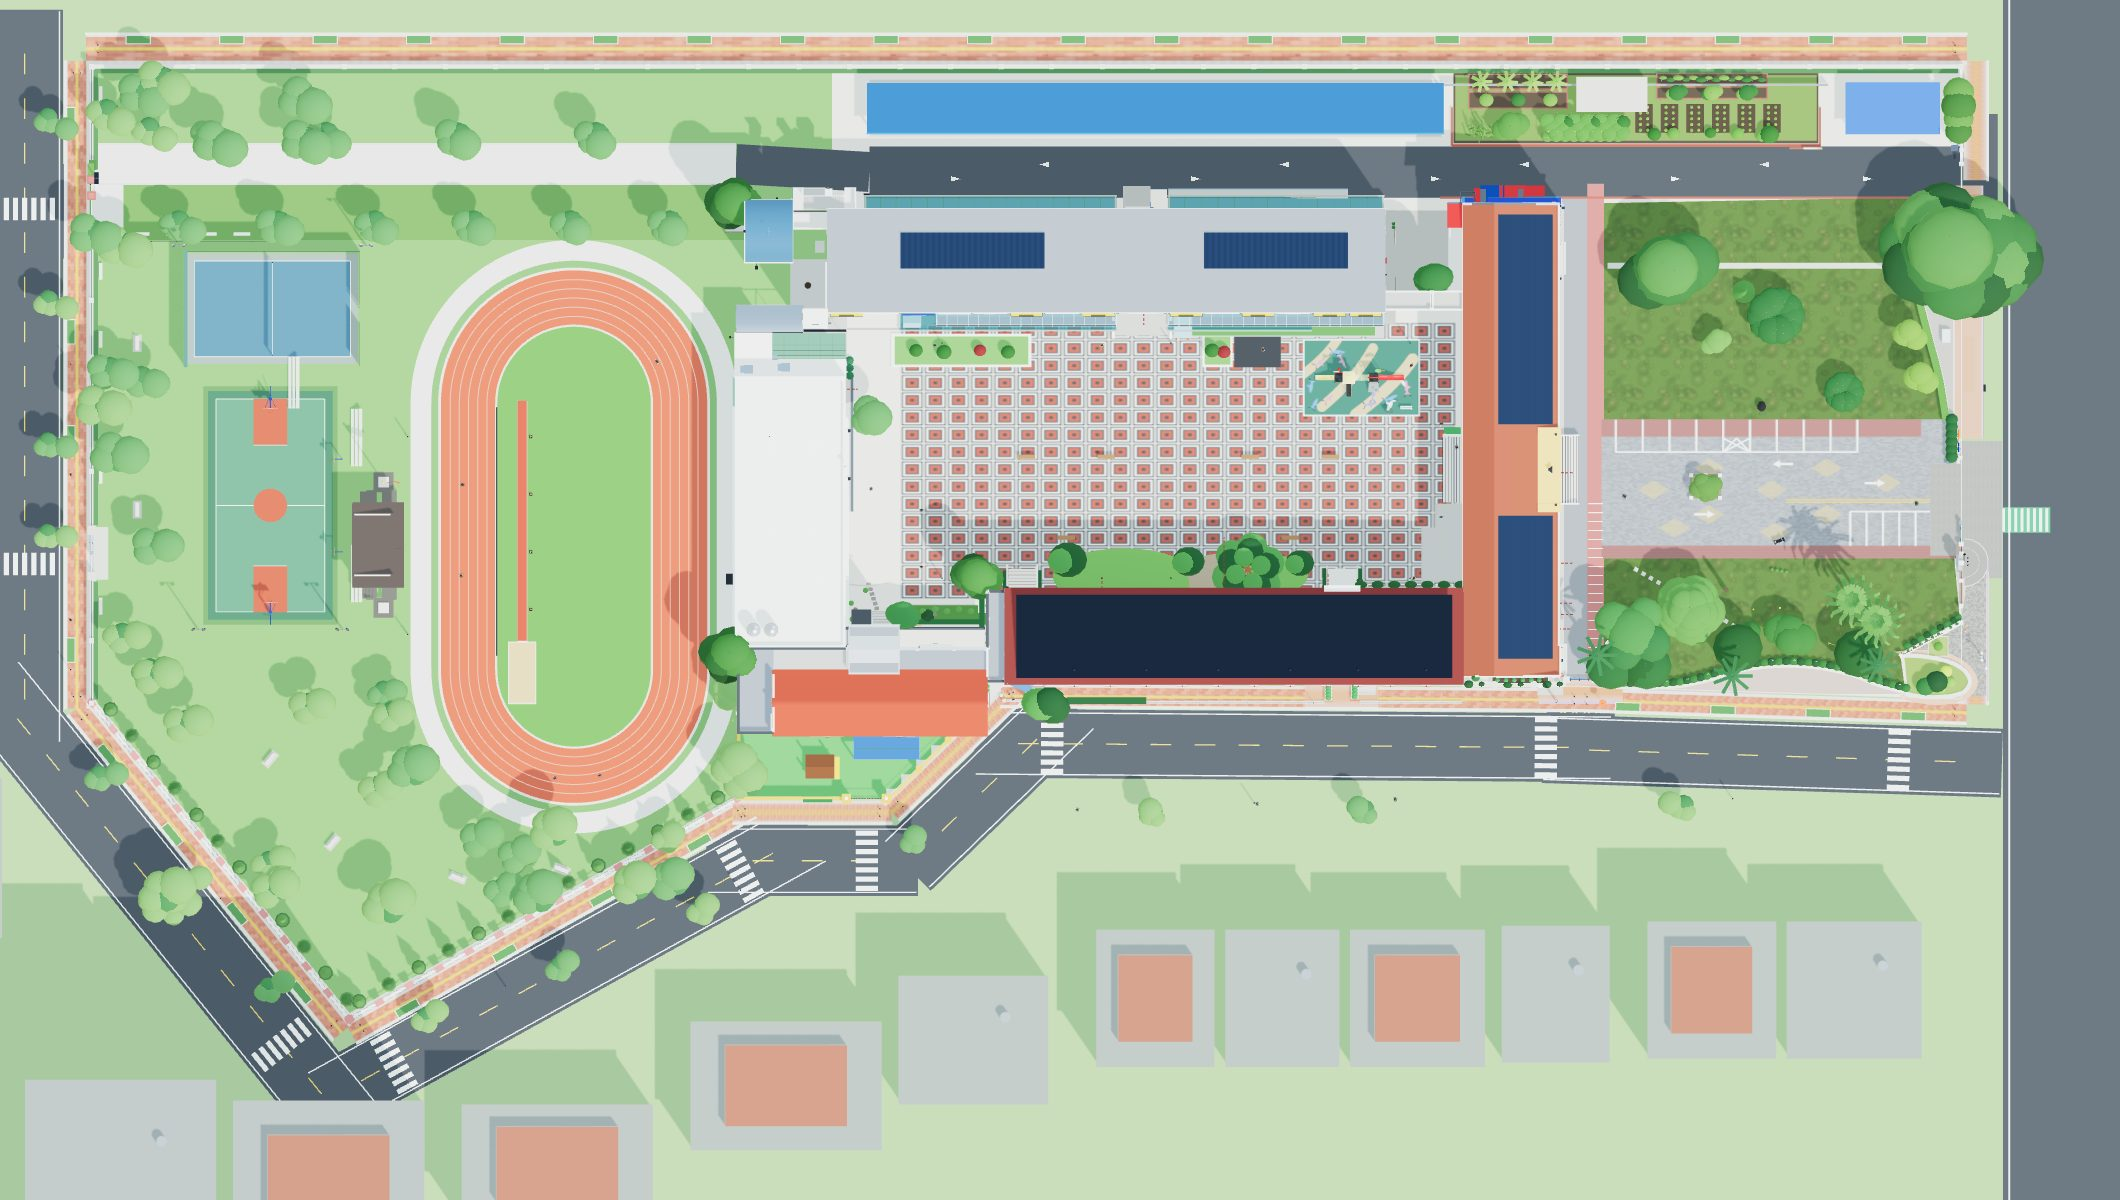
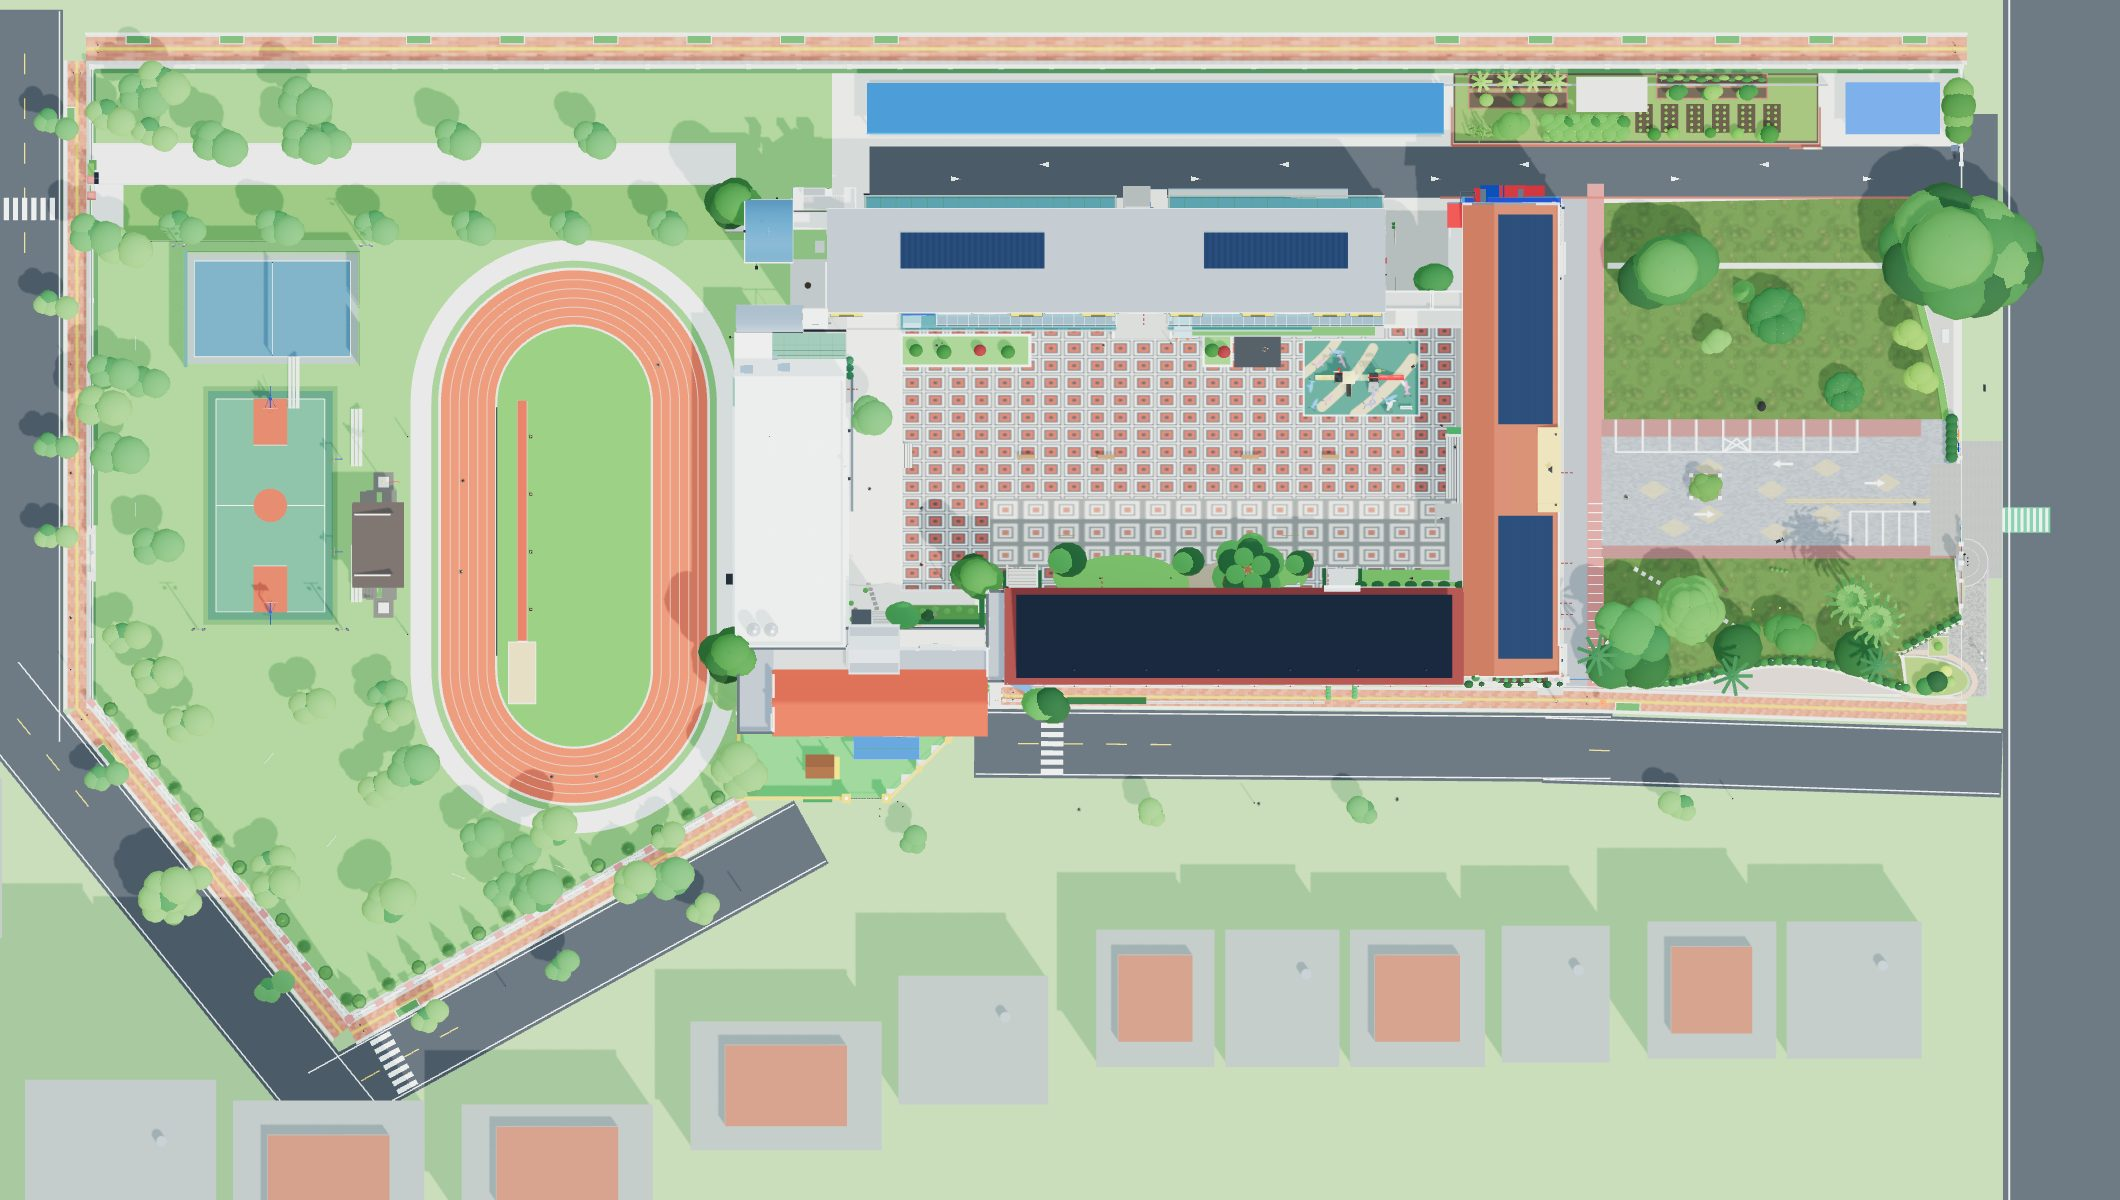
feat(courtyard): sunken courtyard; one step in front of the east breezeway (v2.12.0)
Site facts from the user: one step from the forecourt into the east breezeway, and the
courtyard about 1 m below the breezeway. So the courtyard now sits 0.75 m below the
surrounding ground (0.9 m below the breezeway):
- base terrain and campus ground polygon get an opening over the courtyard, with a
  sunken base slab; washed-stone retaining walls with caps on the N/S/W edges and
  stair flights down (N x1, S x2, W x1); the east side is served by the breezeway
  steps and the rear accessible ramp
- courtyard paving and the play structure groups move down; other objects lying fully
  inside the courtyard (trees, planting, benches, south-side garden) are lowered
  before static batching; the breezeway steps and ramp are built at the new level
- breezeway floor back to front-corridor level (the forecourt-side flight is removed)
- pedestrians, walk-mode eye height and 1F 360 markers follow the sunken courtyard
- admin map images regenerated

Claude-Session: https://claude.ai/code/session_0167Rfd13qErLKZLgH1cNLB3

diff --git a/campus-3d.js b/campus-3d.js
@@ -929,8 +929,21 @@ function addBox(parent, w, h, d, mat, x, y, z, cast = true) {
 // ============================================================================
 // 3. BUILD GROUND, COMMUTER WALKWAY BUFFER, ROADS, COURTYARD, BOUNDARY & CONTEXT
 // ============================================================================
-// Base terrain
-addBox(layerGroups.roads, 980, 0.2, 980, new THREE.MeshStandardMaterial({ color: 0x8eb374, roughness: 0.92 }), 0, -0.14, 0, false);
+// 下沉中庭（v2.12.0）：中庭比東棟穿堂低約 0.9 m、比前庭低約 0.75 m（依現場：穿堂前僅一階，中庭低於穿堂約 1 m）
+const COURTYARD_SINK = { x1: -17.2, x2: 52.6, z1: -24.0, z2: 8.7, D: 0.75 };
+window.COURTYARD_SINK = COURTYARD_SINK;
+const inCourtyardSink = (x, z, m = 0) => x >= COURTYARD_SINK.x1 - m && x <= COURTYARD_SINK.x2 + m && z >= COURTYARD_SINK.z1 - m && z <= COURTYARD_SINK.z2 + m;
+window.inCourtyardSink = inCourtyardSink;
+
+// Base terrain（中庭範圍挖空，另以下沉中庭地基與擋土牆圍塑）
+{
+  const baseMat = new THREE.MeshStandardMaterial({ color: 0x8eb374, roughness: 0.92 });
+  const C = COURTYARD_SINK, E = 490;
+  [[-E, E, -E, C.z1], [-E, E, C.z2, E], [-E, C.x1, C.z1, C.z2], [C.x2, E, C.z1, C.z2]].forEach(([x1, x2, z1, z2]) =>
+    addBox(layerGroups.roads, x2 - x1, 0.2, z2 - z1, baseMat, (x1 + x2) / 2, -0.14, (z1 + z2) / 2, false));
+  // 下沉中庭地基（頂面略低於中庭鋪面）
+  addBox(layerGroups.roads, C.x2 - C.x1, 0.3, C.z2 - C.z1, new THREE.MeshStandardMaterial({ color: 0x9a968c, roughness: 0.9 }), (C.x1 + C.x2) / 2, -C.D - 0.16, (C.z1 + C.z2) / 2, false);
+}
 
 // Procedural Campus Green Lawn Texture (`運動場與後圍牆間的校園草地緩衝區` 自然草皮紋理)
 // 前庭草坪（依 2026 俯拍照片：偏橄欖綠、無明顯割草條紋、局部黃褐色踩踏斑塊）
@@ -1050,6 +1063,11 @@ const CAMPUS_PERIMETER_PX = [
     else innerShape.lineTo(wx, wz);
   });
   innerShape.closePath();
+  {
+    const C = COURTYARD_SINK, hole = new THREE.Path();   // 形狀座標：y = −世界 z
+    hole.moveTo(C.x1, -C.z1); hole.lineTo(C.x1, -C.z2); hole.lineTo(C.x2, -C.z2); hole.lineTo(C.x2, -C.z1); hole.closePath();
+    innerShape.holes.push(hole);
+  }
   const innerGroundMesh = new THREE.Mesh(
     new THREE.ShapeGeometry(innerShape),
     new THREE.MeshStandardMaterial({ color: 0xdad6ca, roughness: 0.88, side: THREE.DoubleSide })
@@ -1301,7 +1319,61 @@ const planterHedgeMat = new THREE.MeshStandardMaterial({ color: 0x4b8546, roughn
   });
 
   cg.traverse(o => { if (o.isMesh) o.userData.landmarkId = 'courtyard-plaza'; });
+  cg.position.y = -COURTYARD_SINK.D;   // 下沉中庭
   layerGroups.roads.add(cg);
+
+  // 下沉中庭四周洗石子擋土牆、壓頂與出入台階（北、南、西三向；東側由東棟穿堂台階與無障礙坡道銜接）
+  {
+    const C = COURTYARD_SINK, yC = 0.16 - C.D, yT = 0.06, H = yT - yC, t = 0.30;
+    const wallMat = new THREE.MeshStandardMaterial({ color: 0xc9c5bb, roughness: 0.86 });
+    const capMat = new THREE.MeshStandardMaterial({ color: 0xe2ded4, roughness: 0.7 });
+    const stepMat = new THREE.MeshStandardMaterial({ color: 0xd5d2ca, roughness: 0.72 });
+    const noseMat = new THREE.MeshStandardMaterial({ color: 0x3a3c3e, roughness: 0.85 });
+    const grp = new THREE.Group();
+    const flights = { N: [[18.0, 3.2]], S: [[-1.5, 3.0], [31.0, 3.0]], W: [[-8.0, 3.0]] };
+    const n = Math.max(2, Math.round(H / 0.15)), r = H / n, tr = 0.32;
+    // 依開口切分牆段
+    const run = (side, a1, a2) => {
+      const gaps = (flights[side] || []).map(([c, w]) => [c - w / 2, c + w / 2]).sort((p, q) => p[0] - q[0]);
+      let cur = a1; const segs = [];
+      gaps.forEach(([g1, g2]) => { if (g1 > cur) segs.push([cur, g1]); cur = Math.max(cur, g2); });
+      if (cur < a2) segs.push([cur, a2]);
+      return segs;
+    };
+    const wall = (side, b1, b2) => {
+      const L = b2 - b1, m = (b1 + b2) / 2;
+      if (side === 'N' || side === 'S') {
+        const z = side === 'N' ? C.z1 - t / 2 : C.z2 + t / 2;
+        addBox(grp, L, H, t, wallMat, m, yC + H / 2, z);
+        addBox(grp, L, 0.06, t + 0.08, capMat, m, yT + 0.03, z);
+      } else {
+        const x = C.x1 - t / 2;
+        addBox(grp, t, H, L, wallMat, x, yC + H / 2, m);
+        addBox(grp, t + 0.08, 0.06, L, capMat, x, yT + 0.03, m);
+      }
+    };
+    run('N', C.x1 - t, C.x2).forEach(([a, b]) => wall('N', a, b));
+    run('S', C.x1 - t, C.x2).forEach(([a, b]) => wall('S', a, b));
+    run('W', C.z1, C.z2).forEach(([a, b]) => wall('W', a, b));
+    // 台階：自中庭邊緣向內下行
+    const flight = (side, c, w) => {
+      for (let k = 0; k < n; k++) {
+        const top = yT - k * r, d = (k + 0.5) * tr;
+        if (side === 'N' || side === 'S') {
+          const z = side === 'N' ? C.z1 + d : C.z2 - d;
+          addBox(grp, w, top - yC, tr, stepMat, c, yC + (top - yC) / 2, z);
+          addBox(grp, w, 0.012, 0.04, noseMat, c, top + 0.006, z + (side === 'N' ? tr / 2 - 0.02 : -(tr / 2 - 0.02)), false);
+        } else {
+          const x = C.x1 + d;
+          addBox(grp, tr, top - yC, w, stepMat, x, yC + (top - yC) / 2, c);
+          addBox(grp, 0.04, 0.012, w, noseMat, x + tr / 2 - 0.02, top + 0.006, c, false);
+        }
+      }
+    };
+    Object.entries(flights).forEach(([side, list]) => list.forEach(([c, w]) => flight(side, c, w)));
+    grp.traverse(o => { o.userData.keepLevel = true; });
+    layerGroups.roads.add(grp);
+  }
   clickableGroups.push(cg);
   landmarkGroupMap.set('courtyard-plaza', cg);
 }
@@ -1315,7 +1387,7 @@ const planterHedgeMat = new THREE.MeshStandardMaterial({ color: 0x4b8546, roughn
   pg.userData = { landmarkId: 'playground-zone' };
   // 位置：北棟前方採光天井外緣 (z ≈ −23.7) 以南約 6 m（照片 31 由北側約 6 m 處拍攝）；整組架於中庭鋪面 (0.16 m) 之上
   const px = 40.2, pz = -17.8;
-  pg.position.y = 0.16;
+  pg.position.y = 0.16 - COURTYARD_SINK.D;   // 中庭鋪面（已下沉）之上
 
   const postGreen = new THREE.MeshStandardMaterial({ color: 0x3aa346, roughness: 0.38, metalness: 0.1 });
   const capDark = new THREE.MeshStandardMaterial({ color: 0x3a2f2c, roughness: 0.5 });
@@ -6515,7 +6587,7 @@ function buildEastBuilding() {
   // 6) 1F 穿堂文化核心：「復興德馬號」五分車閱讀站 ＆ 「READ」原木造型書架
   // 依據現場實拍照片 media_1793514956908～1793514957415 1:1 沉浸式精準建模
   // ============================================================================
-  const yBreezeFloor = 1.16; // 穿堂 1F 水磨石地坪標高（v2.11.9：比中庭地面 0.16 m 高約 1 m，與北棟 1.25 m／南棟 1.15 m 之 1F 同高）
+  const yBreezeFloor = y0 + 0.02; // 穿堂 1F 水磨石地坪標高（v2.12.0：與前走廊等高，正面僅一階；中庭已下沉約 0.9 m）
   const yCeiling = yF[1] - 0.25; // 天花板底面標高 (約 4.15m)
   const zNorthWall = cz(AXIS_CM[8]); // 北側牆面 (約 -10.65m，面向 +Z)
   const zSouthWall = cz(AXIS_CM[7]); // 南側牆面 (約 -1.93m，面向 -Z)
@@ -7127,7 +7199,7 @@ function buildEastBuilding() {
   // 1F 穿堂西側出口：花崗石寬階梯、兩側混凝土側牆與無障礙坡道轉折平臺
   // 依據最新實景照片 media_1793002887451_10566a0d.jpg 1:1 精確還原
   // ============================================================================
-  const yCourtGround = 0.16;
+  const yCourtGround = 0.16 - COURTYARD_SINK.D;   // 下沉中庭鋪面標高
   // yBreezeFloor 已於穿堂文化核心區塊宣告
   const stairRiseTotal = yBreezeFloor - yCourtGround; // 1.20m
   const nBreezeSteps = Math.max(1, Math.round((yBreezeFloor - yCourtGround) / 0.15));   // 依高差自動計算級數
@@ -7140,22 +7212,8 @@ function buildEastBuilding() {
   const breezeFloorCx = (xW0 + xA) / 2;
   const breezeFloorH = yBreezeFloor - y0;
   addBox(g, breezeFloorW + 0.15, breezeFloorH, breezeW, passageFloorMat, breezeFloorCx, y0 + breezeFloorH / 2, breezeZ, false);
-  // v2.11.9：穿堂段前走廊同步架高（穿堂與前走廊等高），並於東側（前庭）設寬大台階下至前庭鋪面
-  {
-    addBox(g, xE - xA + 0.02, breezeFloorH, breezeW, passageFloorMat, (xA + xE) / 2, y0 + breezeFloorH / 2, breezeZ, false);
-    const yPlaza = 0.10, nS = Math.max(1, Math.round((yBreezeFloor - yPlaza) / 0.15)), rS = (yBreezeFloor - yPlaza) / nS, tS = 0.34;
-    const stepMat = new THREE.MeshStandardMaterial({ color: 0xd5d2ca, roughness: 0.72 });
-    const noseMat = new THREE.MeshStandardMaterial({ color: 0x323538, roughness: 0.88 });
-    for (let k = 0; k < nS; k++) {
-      const top = yBreezeFloor - k * rS, x = xE + (k + 0.5) * tS;
-      addBox(g, tS, top - yPlaza, breezeW - 0.3, stepMat, x, yPlaza + (top - yPlaza) / 2, breezeZ);
-      addBox(g, 0.04, 0.012, breezeW - 0.3, noseMat, x + tS / 2 - 0.02, top + 0.006, breezeZ, false);
-    }
-    // 台階兩側矮牆
-    const runX = nS * tS;
-    [-1, 1].forEach(sd => addBox(g, runX + 0.1, yBreezeFloor - yPlaza + 0.25, 0.22, wallMat, xE + runX / 2, yPlaza + (yBreezeFloor - yPlaza + 0.25) / 2, breezeZ + sd * (breezeW / 2 - 0.08)));
-  }
 
+  const keepMarkG = g.children.length, keepMarkD = eastDetailGroup.children.length;
   // 穿堂西側 8 階寬大戶外花崗石台階 (正對挑高大穿堂出口)
   const stairZ_Min = cz(AXIS_CM[8]) + 0.25;
   const stairZ_Max = cz(AXIS_CM[7]) - 0.25;
@@ -7329,6 +7387,9 @@ function buildEastBuilding() {
     }
     window.EAST_REAR_RAMP = { xA1, xB1, xC1, xC2, zN, zS, zNland, zSland, zCtop, zAexit, y1, y2, yTop, yGround };
   }
+  // 以上台階與坡道已依下沉中庭標高建置：標記為不再下移
+  g.children.slice(keepMarkG).forEach(o => o.traverse(c => { c.userData.keepLevel = true; }));
+  eastDetailGroup.children.slice(keepMarkD).forEach(o => o.traverse(c => { c.userData.keepLevel = true; }));
 
 
   // (中庭遊戲器材已統一移至 playground-zone 1:1 準確還原)
@@ -18369,6 +18430,8 @@ pinRingGeo.rotateX(-Math.PI / 2);
 
 function init360SpotBeacons() {
   const spots = window.CAMPUS_360_SPOTS || [];
+  // 下沉中庭內的 1F 實景點：標示高度隨中庭下移
+  spots.forEach(s => { if ((s.floor || '1F') === '1F' && inCourtyardSink(s.x, s.z) && !s.__sunk) { s.y -= COURTYARD_SINK.D; s.__sunk = true; } });
   spots.forEach((s, idx) => {
     const pinGroup = new THREE.Group();
     pinGroup.position.set(s.x, s.y, s.z);
@@ -22363,6 +22426,13 @@ renderer.setAnimationLoop(mainLoopFn = now => {
           if (targetFeet !== null) camera.position.y = THREE.MathUtils.lerp(camera.position.y, targetFeet + eye, 0.18);
         }
       }
+      // 下沉中庭：進入中庭範圍時視高隨地面下降，離開時回復（東棟坡道／台階由其本身邏輯處理）
+      {
+        const inC = inCourtyardSink(camera.position.x, camera.position.z, -0.4);
+        const onRamp = window.EAST_REAR_RAMP && camera.position.x > window.EAST_REAR_RAMP.xA1 - 0.3;
+        if (inC && !onRamp && camera.position.y < 2.8) { camera.position.y = THREE.MathUtils.lerp(camera.position.y, 1.72 - COURTYARD_SINK.D, 0.18); walkState.sunk = true; }
+        else if (!inC && walkState.sunk && camera.position.y < 1.6) { camera.position.y = THREE.MathUtils.lerp(camera.position.y, 1.72, 0.18); if (Math.abs(camera.position.y - 1.72) < 0.02) walkState.sunk = false; }
+      }
       camera.position.y += Math.sin(now * 0.012) * (len > 0.001 ? 0.018 : 0);
       updateWalkCameraTarget();
     } else {
@@ -22471,7 +22541,7 @@ renderer.setAnimationLoop(mainLoopFn = now => {
       const pz = curA[1] + (curB[1] - curA[1]) * ag.segT;
       const cycle = now * 0.0085 * ag.speed + ag.phase;
       const bob = Math.abs(Math.cos(cycle)) * 0.025;
-      ag.mesh.position.set(px, 0.10 + bob, pz);
+      ag.mesh.position.set(px, 0.10 + bob - (inCourtyardSink(px, pz) ? COURTYARD_SINK.D : 0), pz);
       ag.mesh.rotation.y = Math.atan2(curB[0] - curA[0], curB[1] - curA[1]);
       const swing = Math.sin(cycle) * 0.46;
       ag.legL.rotation.x = swing;
@@ -22860,7 +22930,34 @@ const ALL_BUILD_TASKS = [
 
 // ---- 靜態幾何合批：每棟建築構建完成即合併 (draw call 降一個數量級) ----
 window.__batchStats = { batches: 0, ms: 0 };
+// 下沉中庭：將完全位於中庭範圍內、原本貼地建置的物件（樹木、植栽、花台、長椅…）整體下移 D
+const courtyardLowered = new WeakSet();
+const _cbox = new THREE.Box3(), _cpos = new THREE.Vector3();
+function lowerCourtyardContents() {
+  const C = COURTYARD_SINK;
+  const SKIP = new Set(['courtyard-plaza', 'playground-zone', 'north-building']);
+  const todo = [];
+  Object.values(layerGroups).forEach(root => root.traverse(o => {
+    if (!o.isMesh || o.isInstancedMesh || courtyardLowered.has(o)) return;
+    courtyardLowered.add(o);
+    if (o.userData.keepLevel || o.name.startsWith('batch:')) return;
+    let a = o, lm = '';
+    while (a && !lm) { lm = a.userData?.landmarkId || ''; a = a.parent; }
+    if (SKIP.has(lm)) return;
+    _cbox.setFromObject(o);
+    if (_cbox.isEmpty() || _cbox.min.y < -0.3) return;
+    if (_cbox.min.x < C.x1 || _cbox.max.x > C.x2 || _cbox.min.z < C.z1 || _cbox.max.z > C.z2) return;
+    todo.push(o);
+  }));
+  todo.forEach(o => {
+    o.getWorldPosition(_cpos); _cpos.y -= C.D;
+    o.parent.worldToLocal(_cpos); o.position.copy(_cpos); o.updateMatrix();
+  });
+  return todo.length;
+}
+
 function runStaticBatching(label) {
+  try { lowerCourtyardContents(); } catch (err) { console.warn('[Courtyard] lowering skipped:', err); }
   if (new URLSearchParams(window.location.search).has('nobatch')) return;
   try {
     const exclude = [

diff --git a/index.html b/index.html
@@ -43,7 +43,7 @@ window.__updateProgress(15, '正在啟動三維校園引擎...');
 if ('serviceWorker' in navigator) {
   window.addEventListener('DOMContentLoaded', () => {
     window.__updateProgress(25, '校園核心樣式就緒...');
-    navigator.serviceWorker.register('./sw.js?v=2.11.9').then(reg => {
+    navigator.serviceWorker.register('./sw.js?v=2.12.0').then(reg => {
       reg.update();
     }).catch(() => {});
     navigator.serviceWorker.addEventListener('controllerchange', () => {
@@ -76,7 +76,7 @@ document.addEventListener('click', function(e) {
 </script>
 <!-- modulepreload 必須放在 importmap 之後，否則瀏覽器會在 import map 生效前解析 "three" 而失敗 -->
 <link rel="modulepreload" href="./vendor/three/three.module.js">
-<link rel="modulepreload" href="./campus-3d.js?v=2.11.9">
+<link rel="modulepreload" href="./campus-3d.js?v=2.12.0">
 <style>
   /* ==========================================================================
      PKU-3D ("燕园 · 循图，走进燕园") Editorial Design System
@@ -3635,6 +3635,6 @@ document.addEventListener('click', function(e) {
 <script src="./vendor/qrcode.min.js"></script>
 <script src="./data/spots.js"></script>
 <script src="./campus-ui.js?v=2.10.1"></script>
-<script type="module" src="./campus-3d.js?v=2.11.9"></script>
+<script type="module" src="./campus-3d.js?v=2.12.0"></script>
 </body>
 </html>

diff --git a/sw.js b/sw.js
@@ -1,7 +1,7 @@
 // 屏東縣屏東市復興國小 3D 數位校園 (Service Worker)
-// Version: fuxing-3d-campus-v2.11.9
+// Version: fuxing-3d-campus-v2.12.0
 
-const CACHE_NAME = 'fuxing-3d-campus-v2.11.9';
+const CACHE_NAME = 'fuxing-3d-campus-v2.12.0';
 
 // 核心極速快取清單 (App Shell + 3D 引擎 + 1:1 2.5D 高清預覽底圖 + 核心平面圖 + 離線 QR Code)
 const PRECACHE_ASSETS = [
